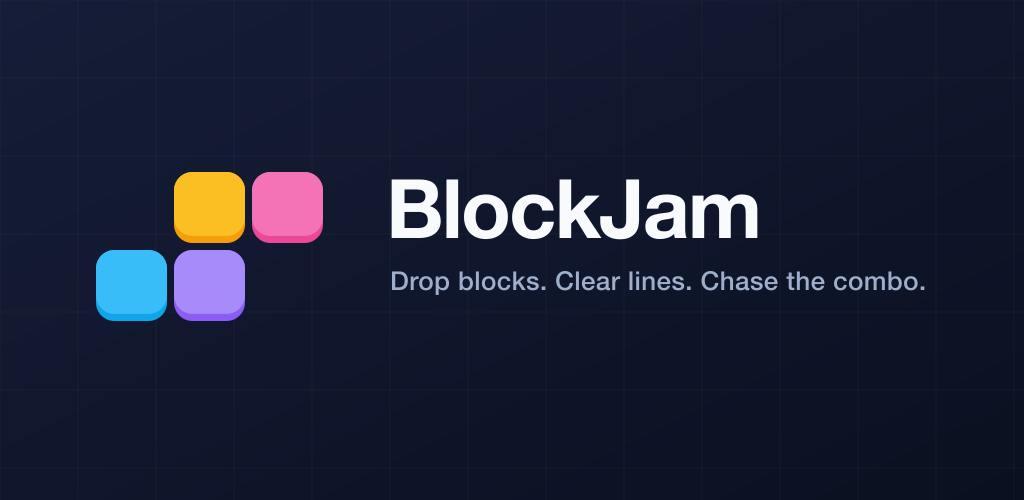
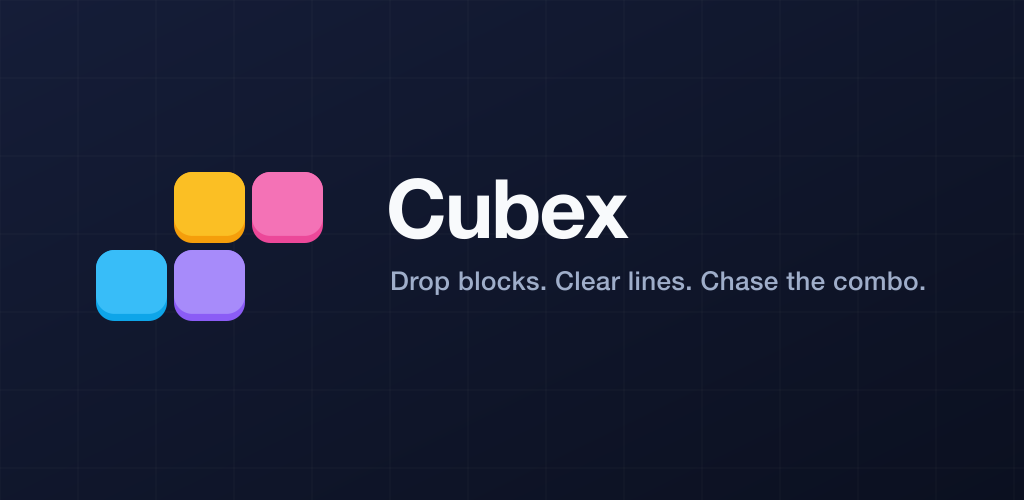
chore: rename the app to Cubex
BlockJam was already taken on the App Store, along with every obvious
alternative — the category is as saturated as the plan warned. Cubex is
registered as com.altixcode.cubex in Apple's portal.

Covers the app name, slug, scheme, bundle id, Android package, IAP product
id, storage key namespace, the icon and feature-graphic wordmark, and all
documentation.

Claude-Session: https://claude.ai/code/session_019MZUttmqx7B7HVA9jaVTyG

Changed region(s): [[0.375, 0.36, 0.75, 0.48]]

diff --git a/app.config.ts b/app.config.ts
@@ -76,18 +76,18 @@ const SK_AD_NETWORK_ITEMS = [
 const VERSION = '1.0.0';
 
 const config: ExpoConfig = {
-  name: 'BlockJam',
-  slug: 'blockjam',
+  name: 'Cubex',
+  slug: 'cubex',
   version: VERSION,
   orientation: 'portrait',
   icon: './assets/icon.png',
-  scheme: 'blockjam',
+  scheme: 'cubex',
   userInterfaceStyle: 'dark',
   backgroundColor: '#0B1020',
   primaryColor: '#FBBF24',
   assetBundlePatterns: ['**/*'],
   ios: {
-    bundleIdentifier: 'com.altixcode.blockjam',
+    bundleIdentifier: 'com.altixcode.cubex',
     buildNumber: '1',
     supportsTablet: true,
     requireFullScreen: false,
@@ -101,7 +101,7 @@ const config: ExpoConfig = {
     },
   },
   android: {
-    package: 'com.altixcode.blockjam',
+    package: 'com.altixcode.cubex',
     versionCode: 1,
     adaptiveIcon: {
       backgroundColor: '#0B1020',

diff --git a/src/config/env.ts b/src/config/env.ts
@@ -39,9 +39,9 @@ export const REVENUECAT_API_KEY = pick(
 
 export const PRIVACY_POLICY_URL =
   process.env.EXPO_PUBLIC_PRIVACY_POLICY_URL ??
-  'https://atasmohammadi.github.io/blockjam/legal/privacy.html';
+  'https://atasmohammadi.github.io/cubex/legal/privacy.html';
 export const TERMS_URL =
-  process.env.EXPO_PUBLIC_TERMS_URL ?? 'https://atasmohammadi.github.io/blockjam/legal/terms.html';
+  process.env.EXPO_PUBLIC_TERMS_URL ?? 'https://atasmohammadi.github.io/cubex/legal/terms.html';
 export const SUPPORT_EMAIL = process.env.EXPO_PUBLIC_SUPPORT_EMAIL ?? 'support@altixcode.com';
 
 export { missingReleaseConfigFrom, RELEASE_ENV_KEYS, selectPlatformValue };

diff --git a/src/screens/HomeScreen.tsx b/src/screens/HomeScreen.tsx
@@ -102,7 +102,7 @@ export function HomeScreen({ onPlay, onOpenSettings, onRemoveAds }: HomeScreenPr
         <Animated.View entering={FadeInUp.duration(400)} style={styles.hero}>
           <Hero />
           <Text style={[type.display, styles.title]} maxFontSizeMultiplier={MAX_DISPLAY_FONT_SCALE}>
-            BlockJam
+            Cubex
           </Text>
           <Text style={[type.caption, styles.subtitle]}>
             Drop blocks. Clear lines. Chase the combo.

diff --git a/src/services/storage.ts b/src/services/storage.ts
@@ -1,9 +1,9 @@
 import AsyncStorage from '@react-native-async-storage/async-storage';
 
 export const STORAGE_KEYS = {
-  progress: 'blockjam.progress.v1',
-  settings: 'blockjam.settings.v1',
-  ads: 'blockjam.ads.v1',
+  progress: 'cubex.progress.v1',
+  settings: 'cubex.settings.v1',
+  ads: 'cubex.ads.v1',
 } as const;
 
 export type StorageKey = (typeof STORAGE_KEYS)[keyof typeof STORAGE_KEYS];

diff --git a/src/__tests__/App.test.tsx b/src/__tests__/App.test.tsx
@@ -20,7 +20,7 @@ describe('App', () => {
   it('opens on the home screen', async () => {
     const view = await render(<App />);
     expect(view.getByLabelText('Play')).toBeTruthy();
-    expect(view.getByText('BlockJam')).toBeTruthy();
+    expect(view.getByText('Cubex')).toBeTruthy();
   });
 
   it('starts a run and shows the board and a full tray', async () => {

diff --git a/src/services/__tests__/storage.test.ts b/src/services/__tests__/storage.test.ts
@@ -38,6 +38,6 @@ describe('storage', () => {
   });
 
   it('namespaces every key', () => {
-    Object.values(STORAGE_KEYS).forEach((key) => expect(key.startsWith('blockjam.')).toBe(true));
+    Object.values(STORAGE_KEYS).forEach((key) => expect(key.startsWith('cubex.')).toBe(true));
   });
 });

diff --git a/docs/setup-accounts.md b/docs/setup-accounts.md
@@ -6,28 +6,28 @@ step I can take over — the "I continue with" line says exactly what.
 
 Values you will need throughout:
 
-| Thing                  | Value                                                           |
-| ---------------------- | --------------------------------------------------------------- |
-| App name               | BlockJam                                                        |
-| Bundle ID / package    | `com.altixcode.blockjam` (already registered in Apple's portal) |
-| iOS IAP product id     | `com.altixcode.blockjam.removeads`                              |
-| Android IAP product id | `remove_ads`                                                    |
-| Entitlement            | `remove_ads`                                                    |
-| Price                  | US$3.99, one-time, non-consumable                               |
-| RevenueCat project     | BlockJam — `proj62d4d4fd`                                       |
-| RevenueCat iOS app     | `app7417aeca64`                                                 |
-| RevenueCat Android app | `appad56489755`                                                 |
+| Thing                  | Value                                                        |
+| ---------------------- | ------------------------------------------------------------ |
+| App name               | Cubex                                                        |
+| Bundle ID / package    | `com.altixcode.cubex` (already registered in Apple's portal) |
+| iOS IAP product id     | `com.altixcode.cubex.removeads`                              |
+| Android IAP product id | `remove_ads`                                                 |
+| Entitlement            | `remove_ads`                                                 |
+| Price                  | US$3.99, one-time, non-consumable                            |
+| RevenueCat project     | Cubex — `proj62d4d4fd`                                       |
+| RevenueCat iOS app     | `app7417aeca64`                                              |
+| RevenueCat Android app | `appad56489755`                                              |
 
 ---
 
 ## 1. Expo — 2 minutes (do this first, it unblocks the most)
 
 1. Go to **expo.dev** → sign in → **Account settings** → **Access tokens**.
-2. **Create token**, name it `blockjam-ci`, copy the value.
+2. **Create token**, name it `cubex-ci`, copy the value.
 3. Send it to me, or run it yourself:
 
    ```bash
-   gh secret set EXPO_TOKEN --repo atasmohammadi/blockjam
+   gh secret set EXPO_TOKEN --repo atasmohammadi/cubex
    ```
 
 **I continue with:** `eas init` (creates the EAS project and writes
@@ -44,10 +44,10 @@ This is the one Apple step that must be done in the browser.
 1. **appstoreconnect.apple.com** → **Apps** → **+** → **New App**.
 2. Fill in:
    - Platform: **iOS**
-   - Name: **BlockJam**
+   - Name: **Cubex**
    - Primary language: **English (U.S.)**
-   - Bundle ID: pick **com.altixcode.blockjam** from the dropdown (already registered)
-   - SKU: `blockjam-ios`
+   - Bundle ID: pick **com.altixcode.cubex** from the dropdown (already registered)
+   - SKU: `cubex-ios`
    - User Access: Full Access
 3. Click **Create**. Stop there — do not fill in any metadata.
 
@@ -62,7 +62,7 @@ uploading the build. Screenshots are the only asset I will ask you for.
 Same shape: the Publishing API works on apps that already exist.
 
 1. **play.google.com/console** → **Create app**.
-   - App name: **BlockJam**
+   - App name: **Cubex**
    - Default language: **English (United States)**
    - App or game: **Game**
    - Free or paid: **Free**
@@ -92,11 +92,11 @@ No public API creates apps or ad units, so all of this is console work.
 1. **apps.admob.com** → **Apps** → **Add app**.
    - Platform **iOS**, "Is the app listed on a supported app store?" → **Yes** if
      you finished step 2, otherwise **No** and link it later.
-   - App name: **BlockJam**. Repeat for **Android**.
+   - App name: **Cubex**. Repeat for **Android**.
 2. For **each** of the two apps, create three ad units (**Ad units → Add ad unit**):
-   - **Banner** — name it `blockjam-banner`, format **Anchored adaptive**
-   - **Interstitial** — `blockjam-interstitial`
-   - **Rewarded** — `blockjam-rewarded`. When it asks for reward settings use
+   - **Banner** — name it `cubex-banner`, format **Anchored adaptive**
+   - **Interstitial** — `cubex-interstitial`
+   - **Rewarded** — `cubex-rewarded`. When it asks for reward settings use
      amount **1**, type **continue**.
 3. Collect **ten** identifiers: 2 app ids (`ca-app-pub-…~…`, note the **tilde**)
    and 8 ad unit ids (`ca-app-pub-…/…`, note the **slash**).
@@ -131,11 +131,11 @@ Connect API key is configured. Two things need you.
    2FA so I cannot do it):
    - **appstoreconnect.apple.com** → **Users and Access** → **Integrations** →
      **In-App Purchase** → **+** → generate a key → download the `.p8`.
-   - **app.revenuecat.com** → project **BlockJam** → **Apps** → **BlockJam iOS**
+   - **app.revenuecat.com** → project **Cubex** → **Apps** → **Cubex iOS**
      → paste the key, its Key ID, and your Issuer ID.
    - Or, from a terminal you are sitting at: `rc setup apple app7417aeca64`
      (it will ask for your Apple ID, password and a 2FA code).
-2. **Google Play service account credentials**: RevenueCat → **BlockJam Android**
+2. **Google Play service account credentials**: RevenueCat → **Cubex Android**
    → upload the JSON from `~/Certificates/play-store-service-account.json`, and
    grant that service account **View financial data** in Play Console →
    Users and permissions.

diff --git a/docs/store-listing.md b/docs/store-listing.md
@@ -4,10 +4,10 @@
 
 | Field                           | Value                                                             |
 | ------------------------------- | ----------------------------------------------------------------- |
-| App name                        | BlockJam                                                          |
+| App name                        | Cubex                                                             |
 | Subtitle (iOS, 30 chars)        | Block puzzle, pure and quick                                      |
 | Short description (Android, 80) | Drop blocks, clear lines, chase the combo. No timer, no pressure. |
-| Bundle id / package             | `com.altixcode.blockjam`                                          |
+| Bundle id / package             | `com.altixcode.cubex`                                             |
 | Category                        | Games → Puzzle (secondary: Casual)                                |
 | Age rating                      | 4+ / Everyone — contains ads, no user content, no gambling        |
 | Price                           | Free, with one optional in-app purchase                           |
@@ -16,7 +16,7 @@
 
 > **Drop blocks. Clear lines. Chase the combo.**
 >
-> BlockJam is a block puzzle stripped back to the part that feels good: place a piece,
+> Cubex is a block puzzle stripped back to the part that feels good: place a piece,
 > watch a line vanish, line up the next one. No timer. No lives. No pressure — just you
 > and an 8×8 grid that keeps asking for one more move.
 >
@@ -107,7 +107,7 @@ of the Families programme and its extra ad restrictions), **Content rating quest
 | Field                | Value                                                                                                                                                 |
 | -------------------- | ----------------------------------------------------------------------------------------------------------------------------------------------------- |
 | Reference name       | Remove Ads (Lifetime)                                                                                                                                 |
-| Product id (iOS)     | `com.altixcode.blockjam.removeads`                                                                                                                    |
+| Product id (iOS)     | `com.altixcode.cubex.removeads`                                                                                                                       |
 | Product id (Android) | `remove_ads`                                                                                                                                          |
 | Type                 | Non-consumable / one-time                                                                                                                             |
 | Price tier           | US$3.99 (test 2.99 vs 4.99 after the first 1k installs)                                                                                               |

diff --git a/docs/release-checklist.md b/docs/release-checklist.md
@@ -32,7 +32,7 @@ Add `EXPO_TOKEN` (Expo → Access Tokens) to the GitHub repo secrets so CI can b
 
 1. Create the project, add the iOS and Android apps.
 2. Create one **non-consumable / one-time** product in each store:
-   - App Store Connect: `com.altixcode.blockjam.removeads`
+   - App Store Connect: `com.altixcode.cubex.removeads`
    - Play Console: `remove_ads`
 3. In RevenueCat create entitlement **`remove_ads`** and attach both products.
 4. Create offering **`default`** with a package of type **Lifetime** containing them.

diff --git a/README.md b/README.md
@@ -1,4 +1,4 @@
-# BlockJam
+# Cubex
 
 An 8×8 block puzzle for iOS and Android. Drop polyomino pieces, clear rows and columns,
 chase the combo. Built with Expo (React Native + TypeScript), monetised with AdMob and a
